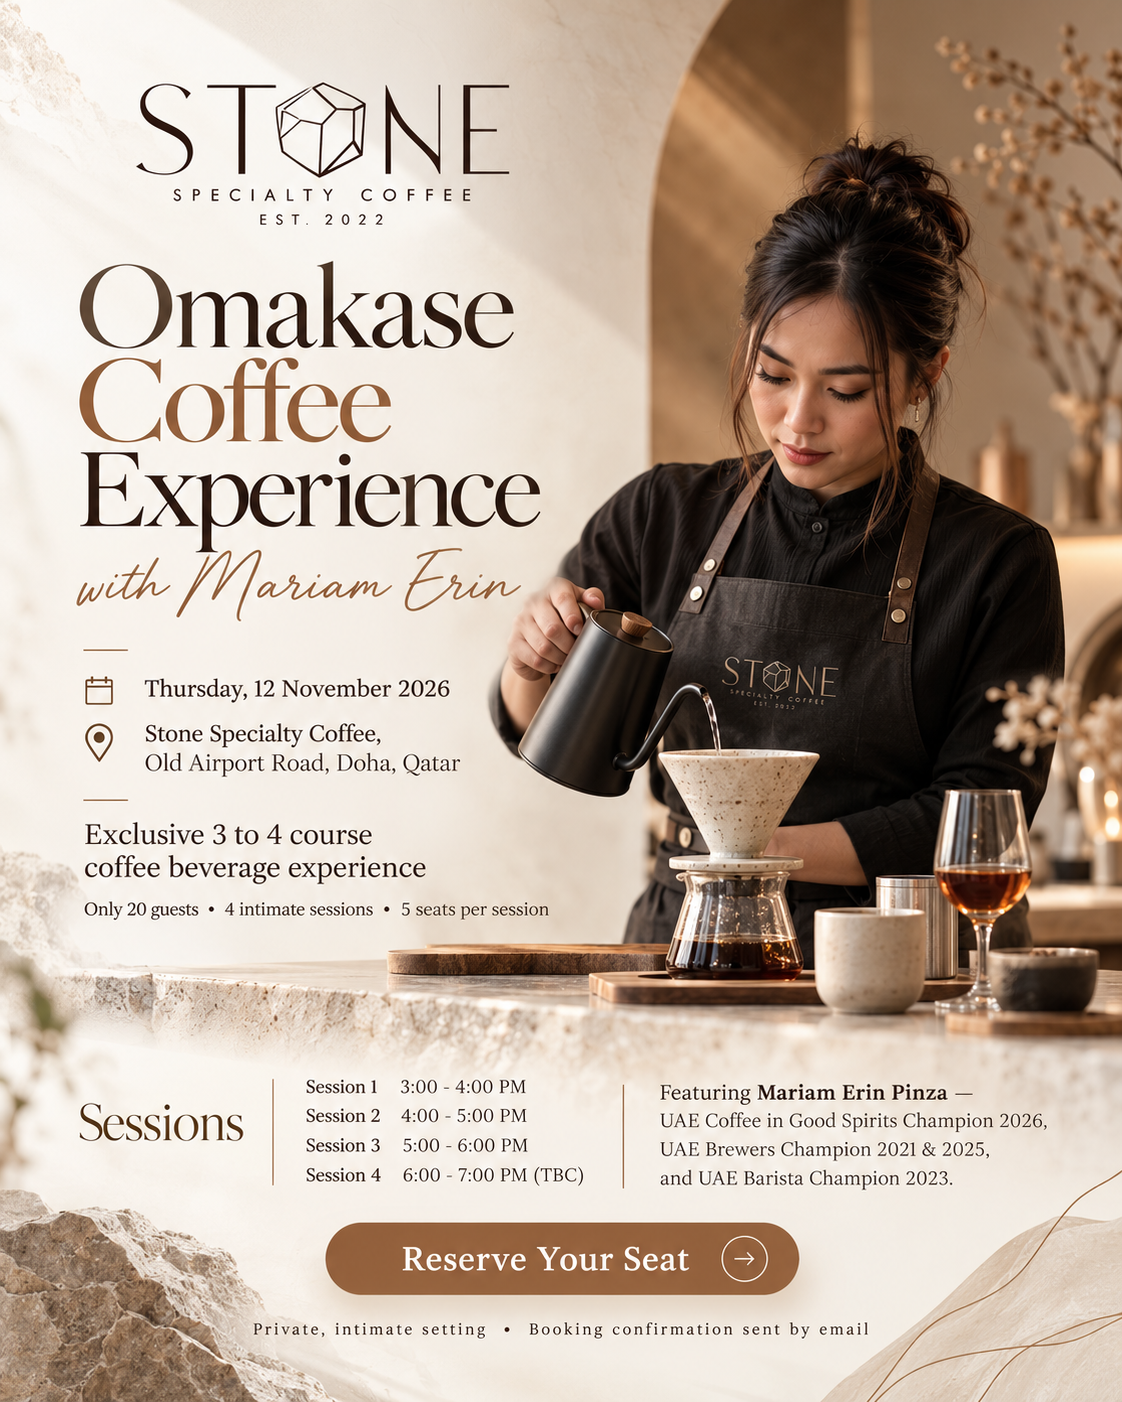
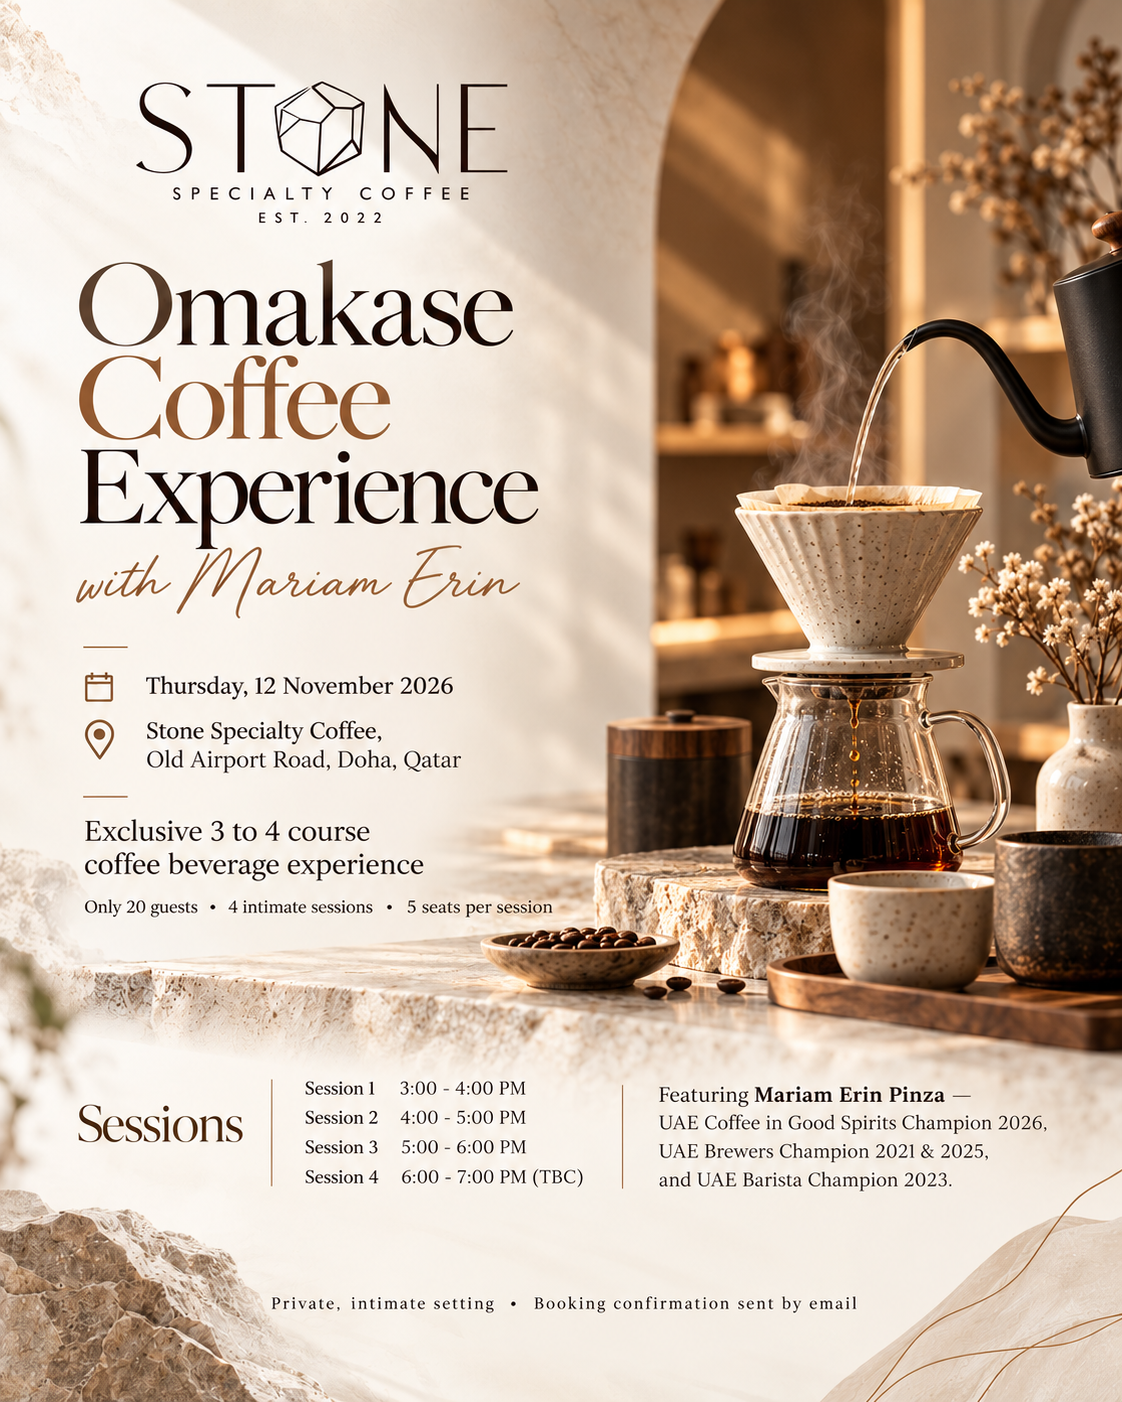
event poster

diff --git a/app/Http/Controllers/Api/PrintJobController.php b/app/Http/Controllers/Api/PrintJobController.php
@@ -14,6 +14,7 @@ class PrintJobController extends Controller
         $jobs = PrintJob::query()
             ->where('status', 'pending')
             ->with([
+                'printerConfig',
                 'order.orderType',
                 'order.orderSource',
                 'order.customer',
@@ -114,8 +115,13 @@ class PrintJobController extends Controller
                         'id' =>
                             $job->id,
 
-                        'printer' =>
-                            $job->printer,
+                        'printer' => [
+                                'id' => $job->printerConfig?->id,
+                                'name' => $job->printerConfig?->system_name,
+                                'address' => $job->printerConfig?->address,
+                                'connection_type' => $job->printerConfig?->connection_type,
+                                'port' => $job->printerConfig?->port,
+                            ],
 
                         'type' =>
                             $job->type,
@@ -167,8 +173,13 @@ class PrintJobController extends Controller
                         'id' =>
                             $job->id,
 
-                        'printer' =>
-                            $job->printer,
+                        'printer' => [
+                            'id' => $job->printerConfig?->id,
+                            'name' => $job->printerConfig?->system_name,
+                            'address' => $job->printerConfig?->address,
+                            'connection_type' => $job->printerConfig?->connection_type,
+                            'port' => $job->printerConfig?->port,
+                        ],
 
                         'type' =>
                             $job->type,
@@ -198,8 +209,13 @@ class PrintJobController extends Controller
                     'id' =>
                         $job->id,
 
-                    'printer' =>
-                        $job->printer,
+                    'printer' => [
+                            'id' => $job->printerConfig?->id,
+                            'name' => $job->printerConfig?->system_name,
+                            'address' => $job->printerConfig?->address,
+                            'connection_type' => $job->printerConfig?->connection_type,
+                            'port' => $job->printerConfig?->port,
+                        ],
 
                     'type' =>
                         $job->type,

diff --git a/database/migrations/2026_10_08_084822_add_connection_type_to_printers.php b/database/migrations/2026_10_08_084822_add_connection_type_to_printers.php
@@ -1,0 +1,30 @@
+<?php
+
+use Illuminate\Database\Migrations\Migration;
+use Illuminate\Database\Schema\Blueprint;
+use Illuminate\Support\Facades\Schema;
+
+return new class extends Migration
+{
+    /**
+     * Run the migrations.
+     */
+    public function up(): void
+    {
+        Schema::table('printers', function (Blueprint $table) {
+            $table->string('connection_type')->nullable();
+            $table->string('address')->nullable();
+            $table->string('port')->nullable();
+        });
+    }
+
+    /**
+     * Reverse the migrations.
+     */
+    public function down(): void
+    {
+        Schema::table('printers', function (Blueprint $table) {
+            //
+        });
+    }
+};

diff --git a/app/Http/Controllers/Api/OrderController.php b/app/Http/Controllers/Api/OrderController.php
@@ -708,11 +708,11 @@ class OrderController extends Controller
             ]);
 
 
-            event(
-                new KitchenOrderCreated(
-                    $order
-                )
-            );
+            // event(
+            //     new KitchenOrderCreated(
+            //         $order
+            //     )
+            // );
 
             $this->printJobService->createKotJobs($order);
 

diff --git a/app/Models/PrintJob.php b/app/Models/PrintJob.php
@@ -48,4 +48,13 @@ class PrintJob extends Model
             PrintJobItem::class
         );
     }
+
+    public function printerConfig()
+    {
+        return $this->belongsTo(
+            Printer::class,
+            'printer',
+            'system_name'
+        );
+    }
 }
